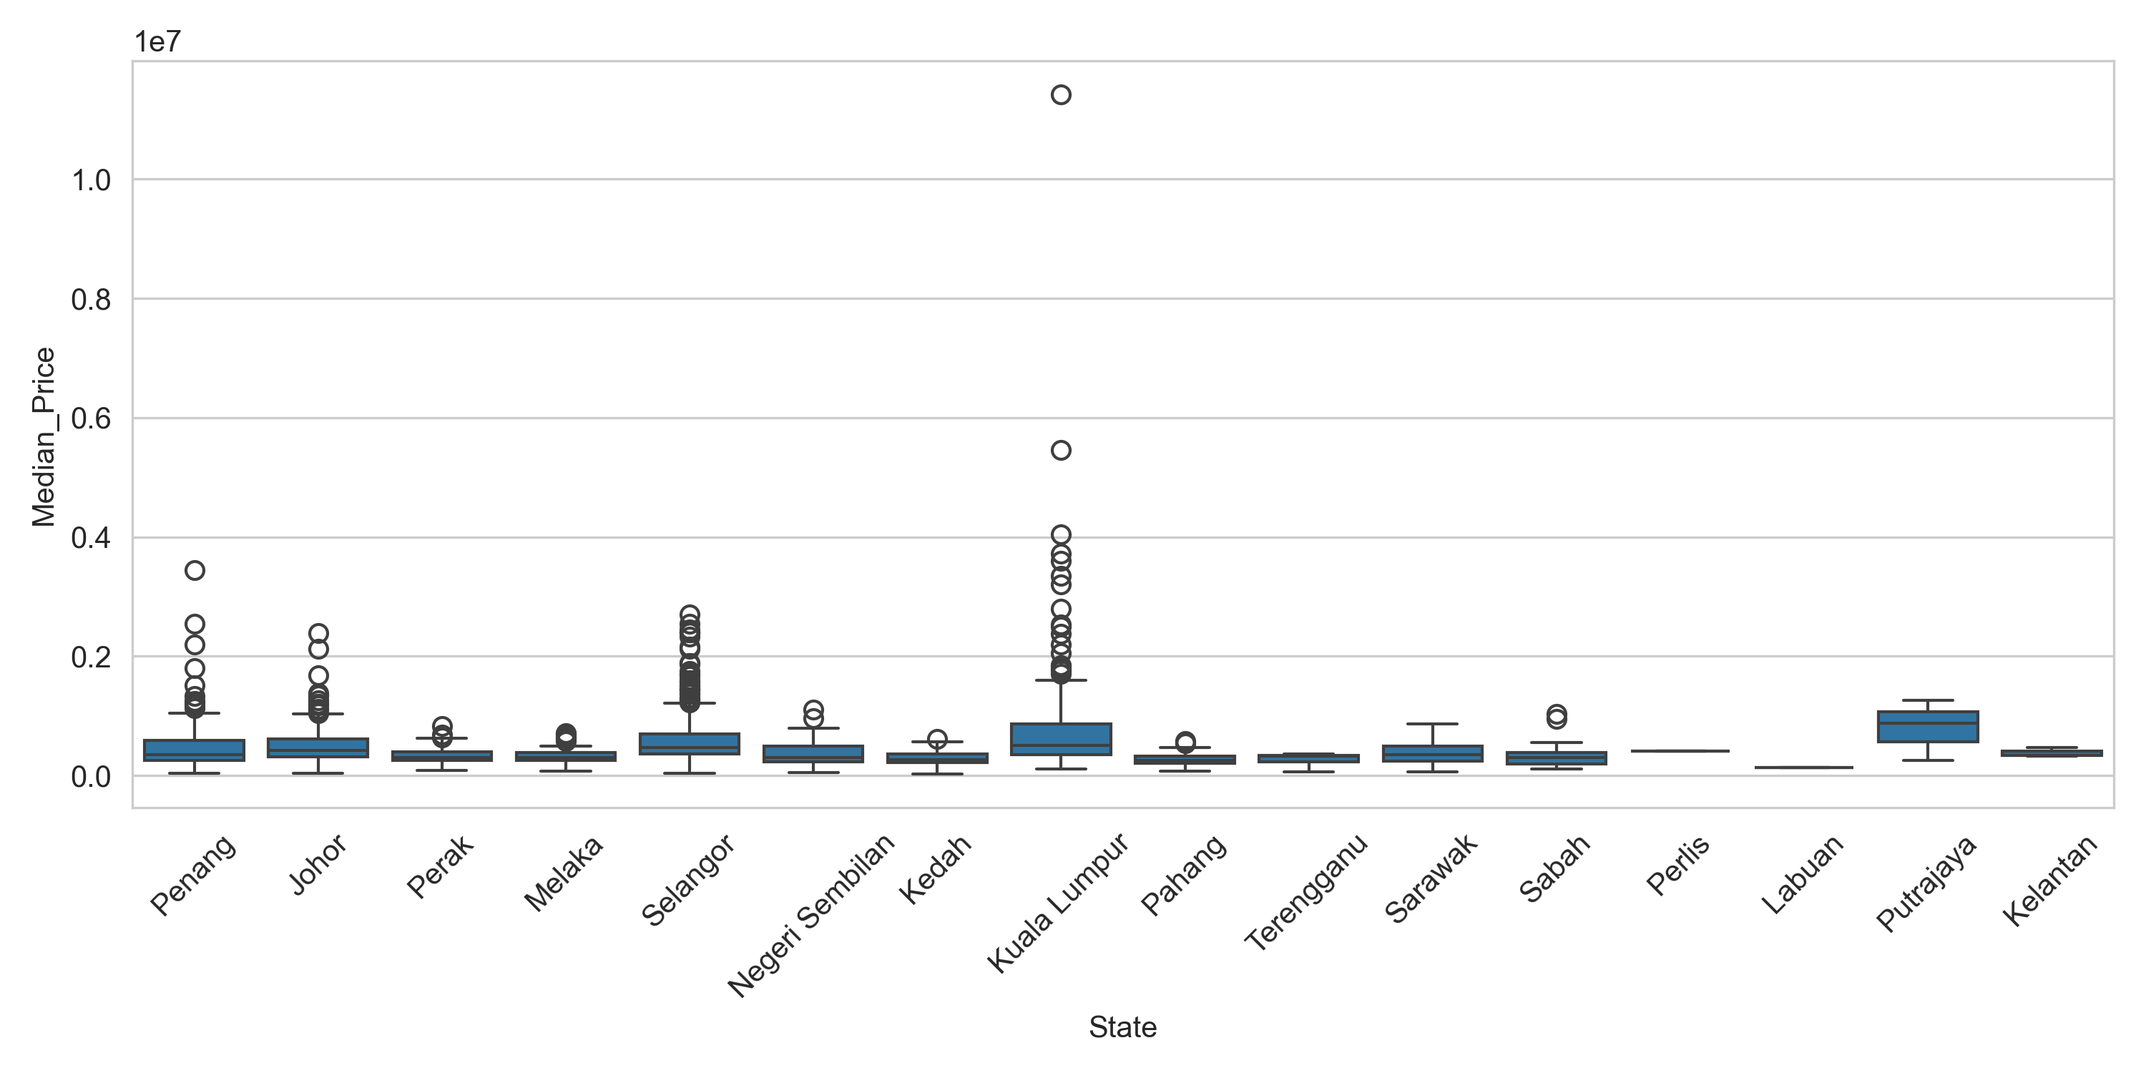
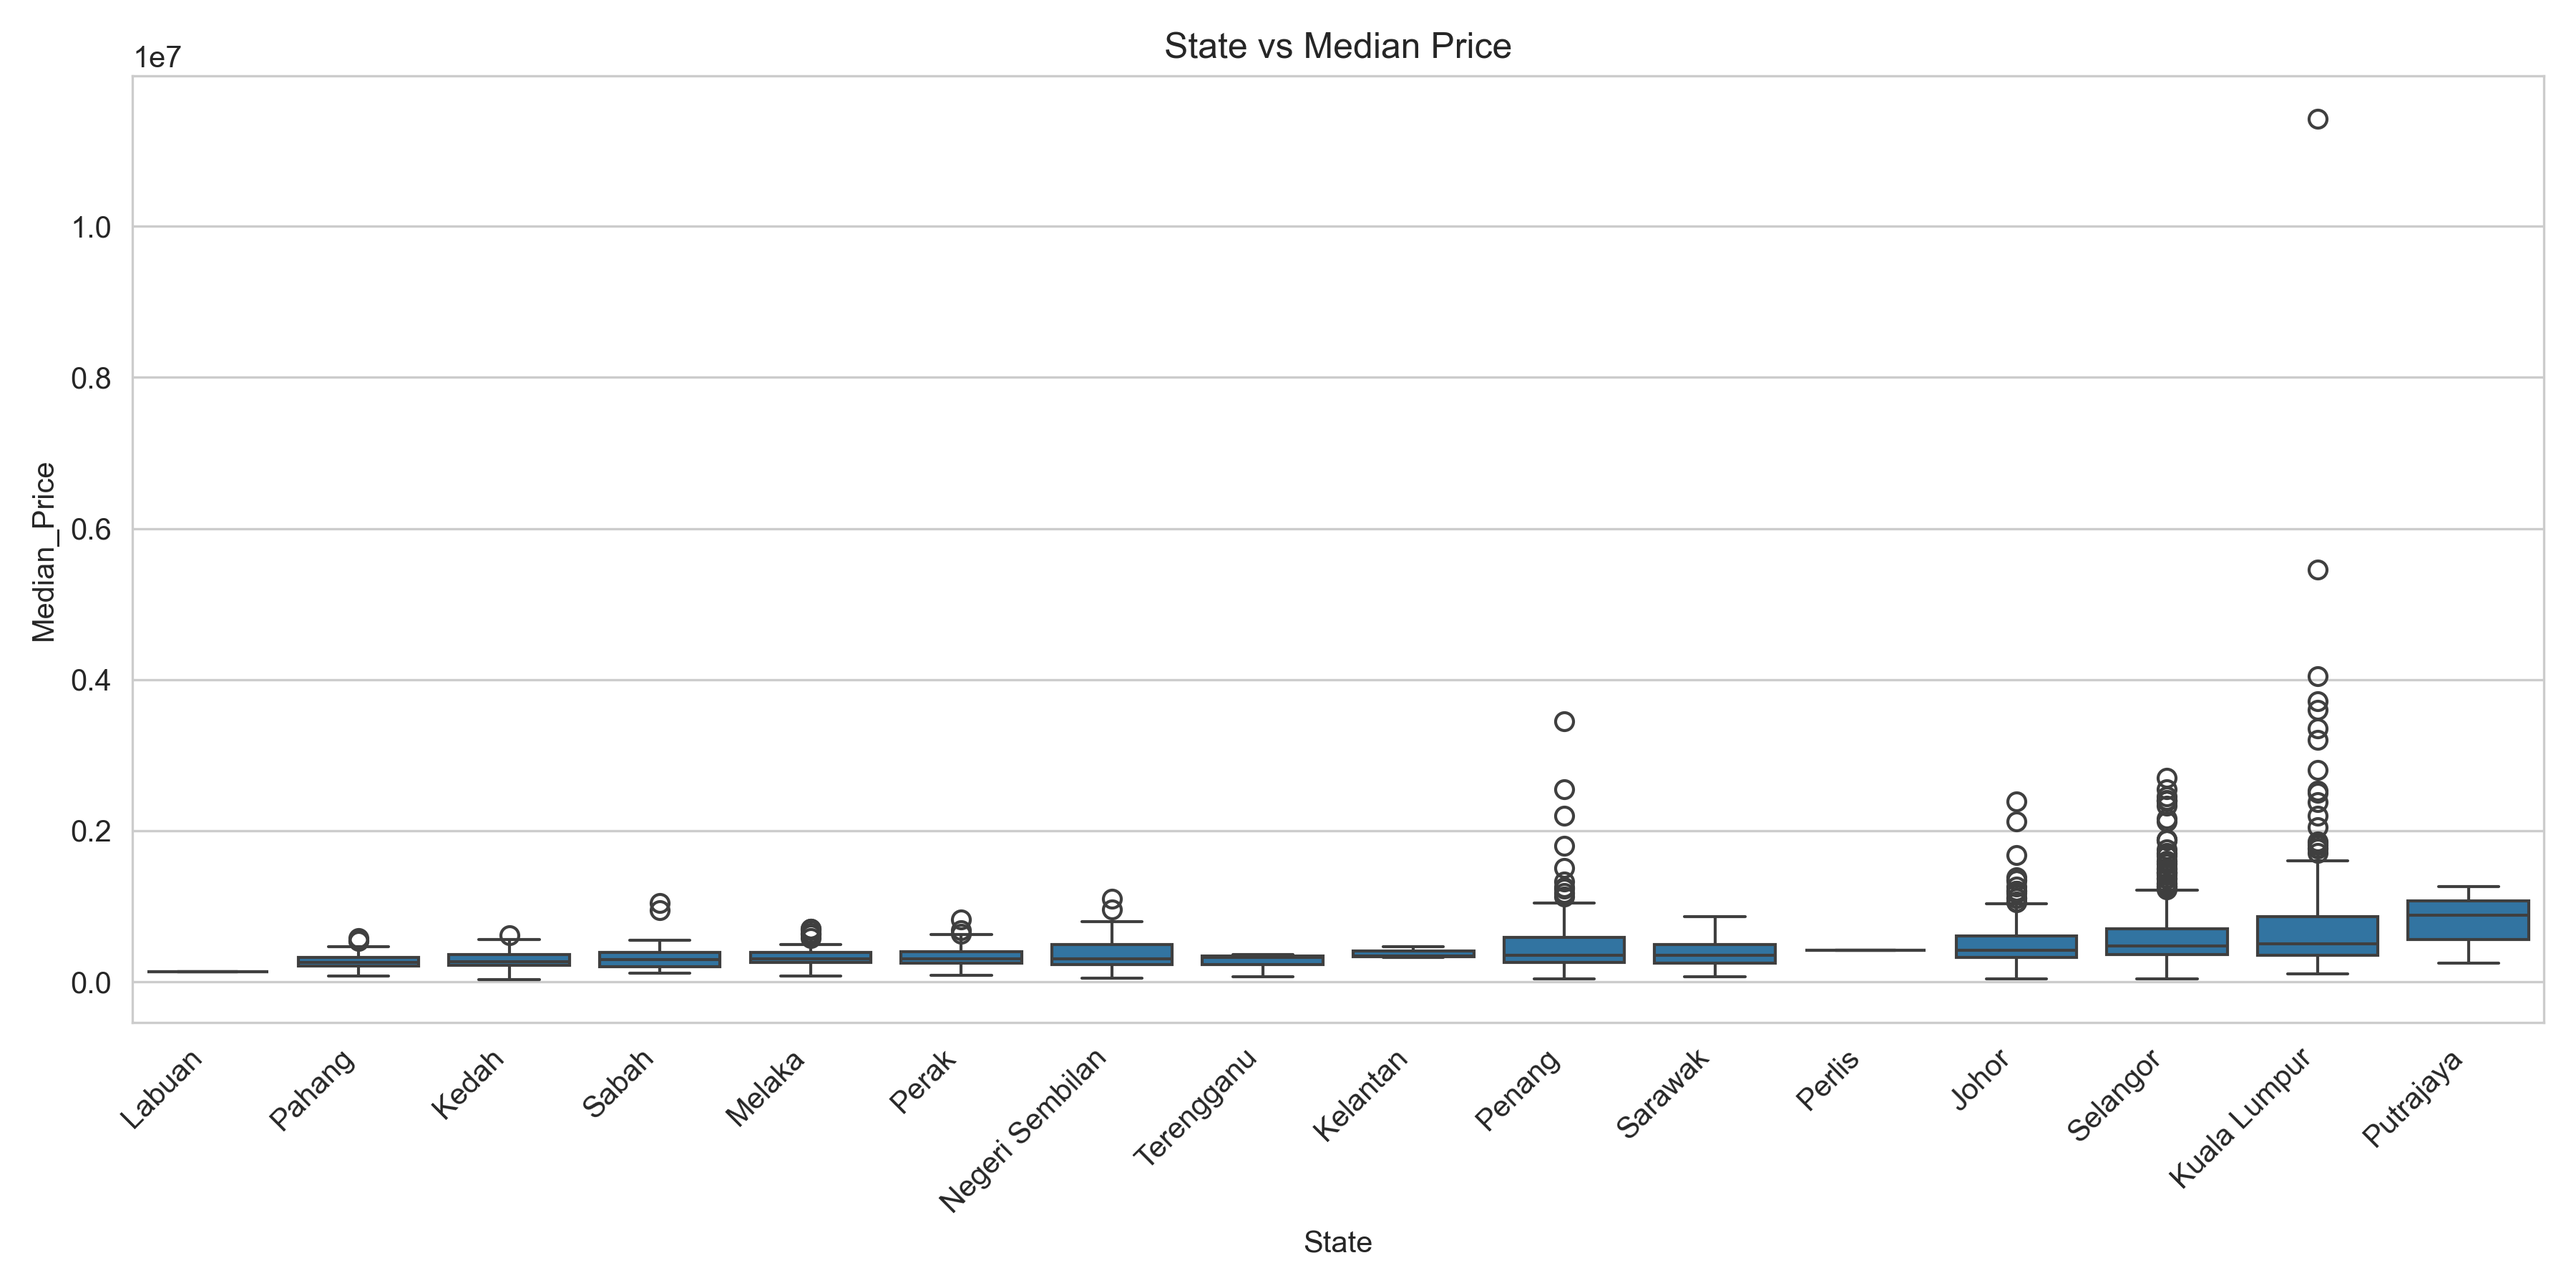
Enhancement for eda

diff --git a/src/eda.py b/src/eda.py
@@ -123,7 +123,9 @@ def main():
     print("DESCRIPTIVE STATISTICS")
     print("=" * 60)
 
-    print(df.describe(include="all"))
+    summary = df.describe(include="all")
+    print(summary)
+    summary.to_csv(output_dir / "descriptive_statistics.csv")
 
     # --------------------------------------------------
     # Numeric Features
@@ -194,6 +196,9 @@ def main():
     # --------------------------------------------------
 
     if "Transactions" in df.columns and "Median_Price" in df.columns:
+        # -------------------------
+        # Original Scatter Plot
+        # -------------------------
         plt.figure(figsize=(7, 5))
         sns.scatterplot(data=df, x="Transactions", y="Median_Price", alpha=0.5)
         plt.title("Transactions vs Median Price")
@@ -201,18 +206,77 @@ def main():
         plt.savefig(output_dir / "transactions_vs_price.png", dpi=300)
         plt.close()
 
+        # -------------------------
+        # Log Scatter Plot
+        # -------------------------
+        plt.figure(figsize=(7, 5))
+        sns.scatterplot(
+            data=df, x="Transactions", y=np.log1p(df["Median_Price"]), alpha=0.5
+        )
+        plt.ylabel("Log(Median Price)")
+        plt.title("Transactions vs Log(Median Price)")
+        plt.tight_layout()
+        plt.savefig(output_dir / "transactions_vs_price_log.png", dpi=300)
+        plt.close()
+
     # --------------------------------------------------
     # Feature vs Target Analysis
     # --------------------------------------------------
 
     for col in ["State", "Tenure", "Type"]:
-        if col in df.columns:
-            plt.figure(figsize=(10, 5))
-            sns.boxplot(x=col, y="Median_Price", data=df)
-            plt.xticks(rotation=45)
-            plt.tight_layout()
-            plt.savefig(output_dir / f"{col}_vs_price.png", dpi=300)
-            plt.close()
+
+        if col not in df.columns:
+            continue
+
+        # Copy dataframe for plotting only
+        plot_df = df.copy()
+        plot_col = col
+
+        # Group infrequent property types
+        if col == "Type":
+            counts = plot_df["Type"].value_counts()
+
+            plot_df["Type_Plot"] = plot_df["Type"].where(
+                plot_df["Type"].map(counts) >= 30, "Others"
+            )
+
+            plot_col = "Type_Plot"
+
+        # Order categories by median house price
+        order = plot_df.groupby(plot_col)["Median_Price"].median().sort_values().index
+
+        # -------------------------
+        # Original Boxplot
+        # -------------------------
+        plt.figure(figsize=(12, 6))
+
+        sns.boxplot(data=plot_df, x=plot_col, y="Median_Price", order=order)
+
+        plt.xticks(rotation=45, ha="right")
+        plt.title(f"{col} vs Median Price")
+        plt.tight_layout()
+
+        plt.savefig(output_dir / f"{col}_vs_price.png", dpi=300)
+
+        plt.close()
+
+        # -------------------------
+        # Log Boxplot
+        # -------------------------
+        plt.figure(figsize=(12, 6))
+
+        sns.boxplot(
+            data=plot_df, x=plot_col, y=np.log1p(plot_df["Median_Price"]), order=order
+        )
+
+        plt.xticks(rotation=45, ha="right")
+        plt.ylabel("log1p(Median Price)")
+        plt.title(f"{col} vs Log(Median Price)")
+        plt.tight_layout()
+
+        plt.savefig(output_dir / f"{col}_vs_price_log.png", dpi=300)
+
+        plt.close()
 
     # --------------------------------------------------
     # Outliers Count
